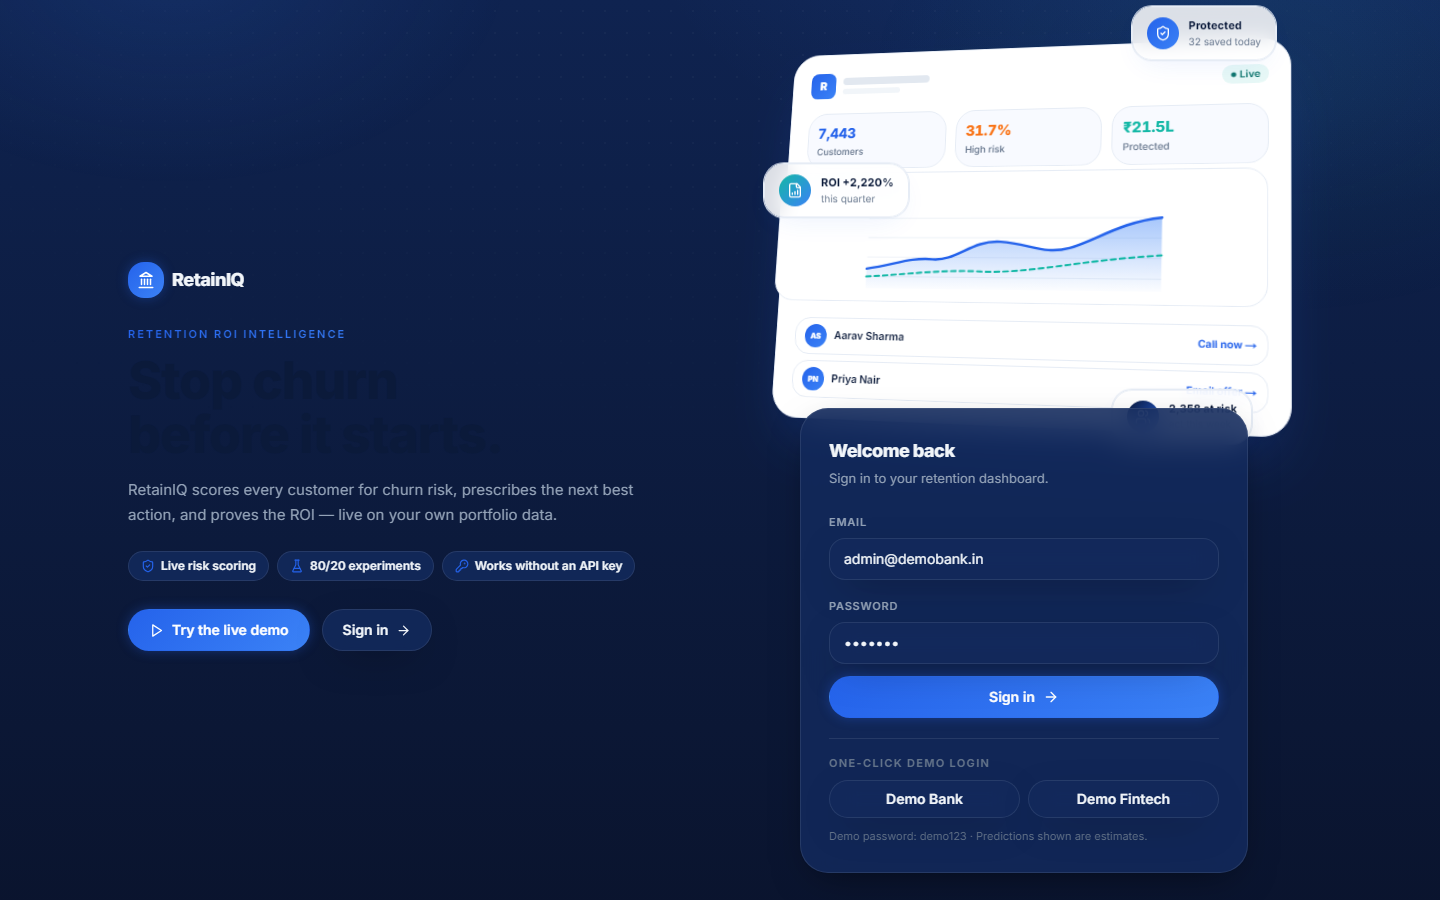
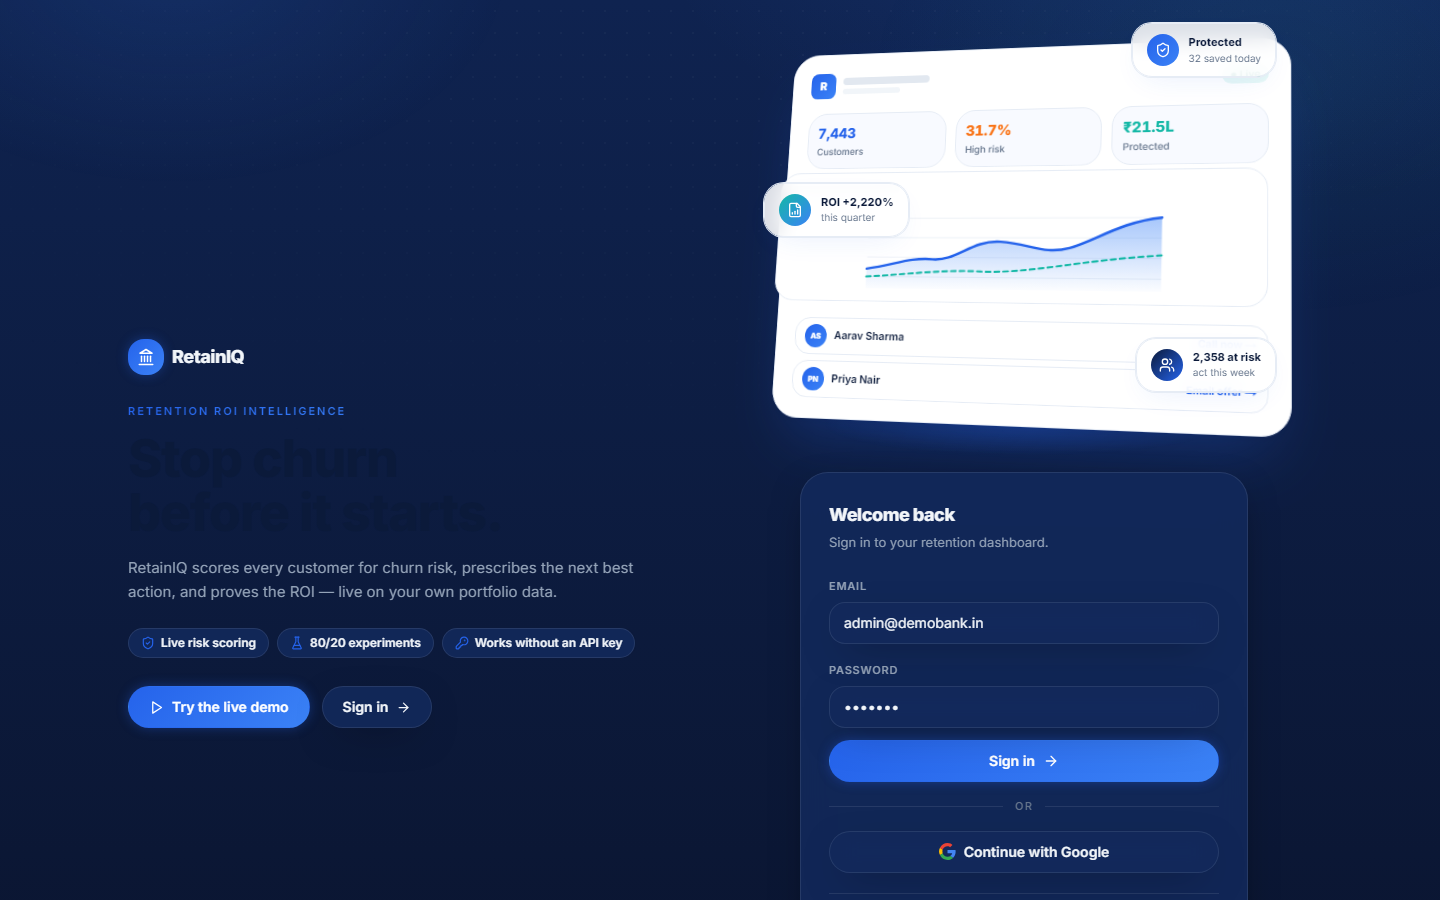
fix(login): alignment spacing + Continue with Google (honest unconfigured state)

diff --git a/frontend/app/login/page.tsx b/frontend/app/login/page.tsx
@@ -7,12 +7,29 @@ import { Reveal } from "@/components/motion";
 import FloatingDash from "@/components/FloatingDash";
 
 const BASE = process.env.NEXT_PUBLIC_API_URL || "http://localhost:8000";
+// Optional Google Identity client ID. When unset (default), the Google button
+// shows a clear message instead of a broken flow. Server exchange lives at
+// POST /api/auth/google (backend-owned; not part of this UI).
+const GOOGLE_CLIENT_ID = process.env.NEXT_PUBLIC_GOOGLE_CLIENT_ID || "";
+
+function GoogleIcon() {
+  return (
+    <svg width="17" height="17" viewBox="0 0 24 24" aria-hidden>
+      <path fill="#4285F4" d="M23.5 12.3c0-.9-.1-1.5-.3-2.3H12v4.3h6.5c-.1 1.1-.8 2.7-2.4 3.8l-.1.1 3.5 2.7.2.1c2.2-2 3.8-5 3.8-8.7z" />
+      <path fill="#34A853" d="M12 24c3.2 0 5.9-1.1 7.9-2.9l-3.8-2.9c-1 .7-2.4 1.2-4.1 1.2-3.1 0-5.8-2.1-6.8-5l-.1.1-3.6 2.8v.1C3.5 21.4 7.4 24 12 24z" />
+      <path fill="#FBBC05" d="M5.2 14.4c-.2-.8-.4-1.6-.4-2.4s.1-1.6.4-2.4l-.1-.1-3.6-2.8-.1.1C.5 8.6 0 10.2 0 12s.5 3.4 1.4 4.9l3.8-2.5z" />
+      <path fill="#EA4335" d="M12 4.6c1.8 0 3 .8 3.7 1.4l3.3-3.2C17.9 1.1 15.2 0 12 0 7.4 0 3.5 2.6 1.4 6.7l3.8 2.9c1-2.9 3.7-5 6.8-5z" />
+    </svg>
+  );
+}
 
 export default function Login() {
   const [email, setEmail] = useState("admin@demobank.in");
   const [password, setPassword] = useState("demo123");
   const [err, setErr] = useState("");
   const [busy, setBusy] = useState(false);
+  const [gmsg, setGmsg] = useState("");
+  const [gbusy, setGbusy] = useState(false);
   const router = useRouter();
 
   async function submit(e?: React.FormEvent, demoEmail?: string) {
@@ -28,6 +45,37 @@ export default function Login() {
       localStorage.setItem("retainiq_token", body.token);
       router.replace("/dashboard");
     } catch (err: any) { setErr(err.message); } finally { setBusy(false); }
+  }
+
+  async function googleLogin() {
+    setGmsg(""); setGbusy(true);
+    try {
+      const g: any = (window as any).google?.accounts?.id;
+      if (!GOOGLE_CLIENT_ID || !g) {
+        throw new Error("Google sign-in isn't connected yet (no client ID). Use email or one-click demo login.");
+      }
+      const credential = await new Promise<string>((resolve, reject) => {
+        try {
+          g.initialize({
+            client_id: GOOGLE_CLIENT_ID,
+            callback: (r: any) => (r?.credential ? resolve(r.credential) : reject(new Error("Google sign-in was cancelled."))),
+          });
+          g.prompt((n: any) => {
+            if (n?.isNotDisplayed?.() || n?.isSkippedMoment?.()) {
+              reject(new Error("Google prompt was blocked by the browser. Use email or demo login."));
+            }
+          });
+        } catch (e: any) { reject(e); }
+      });
+      const res = await fetch(`${BASE}/api/auth/google`, {
+        method: "POST", headers: { "Content-Type": "application/json" },
+        body: JSON.stringify({ credential }),
+      });
+      const body = await res.json().catch(() => ({}));
+      if (!res.ok) throw new Error(body.detail || "Google sign-in failed on the server.");
+      localStorage.setItem("retainiq_token", body.token);
+      router.replace("/dashboard");
+    } catch (e: any) { setGmsg(e.message); } finally { setGbusy(false); }
   }
 
   return (
@@ -75,10 +123,12 @@ export default function Login() {
       {/* right: 3D visual + form */}
       <div className="relative">
         <Reveal delay={0.1}>
-          <FloatingDash />
+          <div className="pb-10">
+            <FloatingDash />
+          </div>
         </Reveal>
         <Reveal delay={0.18}>
-          <div className="glass rounded-3xl p-7 w-full max-w-md mx-auto mt-6 lg:-mt-4 relative shadow-card">
+          <div className="glass rounded-3xl p-7 w-full max-w-md mx-auto mt-2 relative shadow-card">
             <h2 className="text-lg font-extrabold tracking-tight" style={{ color: "var(--text-1)" }}>Welcome back</h2>
             <p className="text-[13px] mt-1 mb-5" style={{ color: "var(--text-2)" }}>Sign in to your retention dashboard.</p>
             <form onSubmit={(e) => submit(e)} className="space-y-3">
@@ -95,6 +145,15 @@ export default function Login() {
                 {busy ? "Signing in…" : <>Sign in <ArrowRight size={16} /></>}
               </Button>
             </form>
+            <div className="flex items-center gap-3 my-4" aria-hidden>
+              <span className="flex-1 h-px" style={{ background: "var(--border)" }} />
+              <span className="text-[11px] font-semibold uppercase tracking-[0.1em]" style={{ color: "var(--text-3)" }}>or</span>
+              <span className="flex-1 h-px" style={{ background: "var(--border)" }} />
+            </div>
+            <Button variant="secondary" className="w-full bg-white" size="lg" loading={gbusy} onClick={googleLogin}>
+              <GoogleIcon /> Continue with Google
+            </Button>
+            {gmsg && <p className="text-xs mt-2 text-center" role="status" style={{ color: "var(--text-2)" }}>{gmsg}</p>}
             <div className="mt-5 pt-4 border-t" style={{ borderColor: "var(--border)" }}>
               <p className="text-[11px] font-bold uppercase tracking-[0.12em] mb-2" style={{ color: "var(--text-3)" }}>One-click demo login</p>
               <div className="grid grid-cols-2 gap-2">

diff --git a/frontend/components/FloatingDash.tsx b/frontend/components/FloatingDash.tsx
@@ -70,7 +70,7 @@ export default function FloatingDash() {
       </div>
 
       {/* floating glass cards */}
-      <div className="absolute -top-6 -right-2 sm:right-2 rounded-2xl bg-white/85 border border-[#E6ECF5] px-3.5 py-2.5 flex items-center gap-2.5 animate-float shadow-card"
+      <div className="absolute -top-2 right-2 rounded-2xl bg-white/85 border border-[#E6ECF5] px-3.5 py-2.5 flex items-center gap-2.5 animate-float shadow-card"
         style={{ backdropFilter: "blur(10px)", transform: "translateZ(90px)" }}>
         <span className="w-8 h-8 rounded-xl flex items-center justify-center text-white" style={{ backgroundImage: "linear-gradient(135deg,#2563EB,#3B82F6)" }}>
           <ShieldCheck size={16} />
@@ -80,7 +80,7 @@ export default function FloatingDash() {
           <span className="block text-[10px] text-slate-500">32 saved today</span>
         </span>
       </div>
-      <div className="absolute top-1/3 -left-2 sm:left-0 rounded-2xl bg-white/85 border border-[#E6ECF5] px-3.5 py-2.5 flex items-center gap-2.5 animate-float shadow-card"
+      <div className="absolute top-[38%] left-0 rounded-2xl bg-white/85 border border-[#E6ECF5] px-3.5 py-2.5 flex items-center gap-2.5 animate-float shadow-card"
         style={{ backdropFilter: "blur(10px)", animationDelay: "1.4s" }}>
         <span className="w-8 h-8 rounded-xl flex items-center justify-center text-white" style={{ backgroundImage: "linear-gradient(135deg,#14B8A6,#3B82F6)" }}>
           <FileBarChart size={16} />
@@ -90,7 +90,7 @@ export default function FloatingDash() {
           <span className="block text-[10px] text-slate-500">this quarter</span>
         </span>
       </div>
-      <div className="absolute -bottom-5 right-8 rounded-2xl bg-white/85 border border-[#E6ECF5] px-3.5 py-2.5 flex items-center gap-2.5 animate-float shadow-card"
+      <div className="absolute bottom-8 right-2 rounded-2xl bg-white/85 border border-[#E6ECF5] px-3.5 py-2.5 flex items-center gap-2.5 animate-float shadow-card"
         style={{ backdropFilter: "blur(10px)", animationDelay: "2.6s" }}>
         <span className="w-8 h-8 rounded-xl flex items-center justify-center text-white" style={{ backgroundImage: "linear-gradient(135deg,#0B1A3A,#2563EB)" }}>
           <Users size={16} />

diff --git a/docs/UI_REPORT.md b/docs/UI_REPORT.md
@@ -86,3 +86,9 @@ R3F/three chunks eliminated (were dynamic-only on login). No perf collapse (belo
 3. “Last updated” for the model doesn’t exist in metrics — shows “Trained on N”.
 4. Screenshots cover login/dashboard/customers; other routes share shell/components, all 200 + clean.
 5. Segments donut labels come from backend segment names (currently quadrant-style names) — real data, shown as-is.
+6. **Login follow-up (2026-10-08):** right-column overlap fixed (visual gets `pb-10` breathing
+   room, floating chips constrained inside the board, form no longer pulled up over the visual).
+   Added “Continue with Google” (inline G logo, no external assets): attempts real GIS +
+   `POST /api/auth/google` only when `NEXT_PUBLIC_GOOGLE_CLIENT_ID` is set; otherwise shows an
+   honest “not connected” message. Real Google login needs backend OAuth + client ID (out of
+   UI scope) — verified: message shows, email/demo flows unchanged and land on dashboard.
